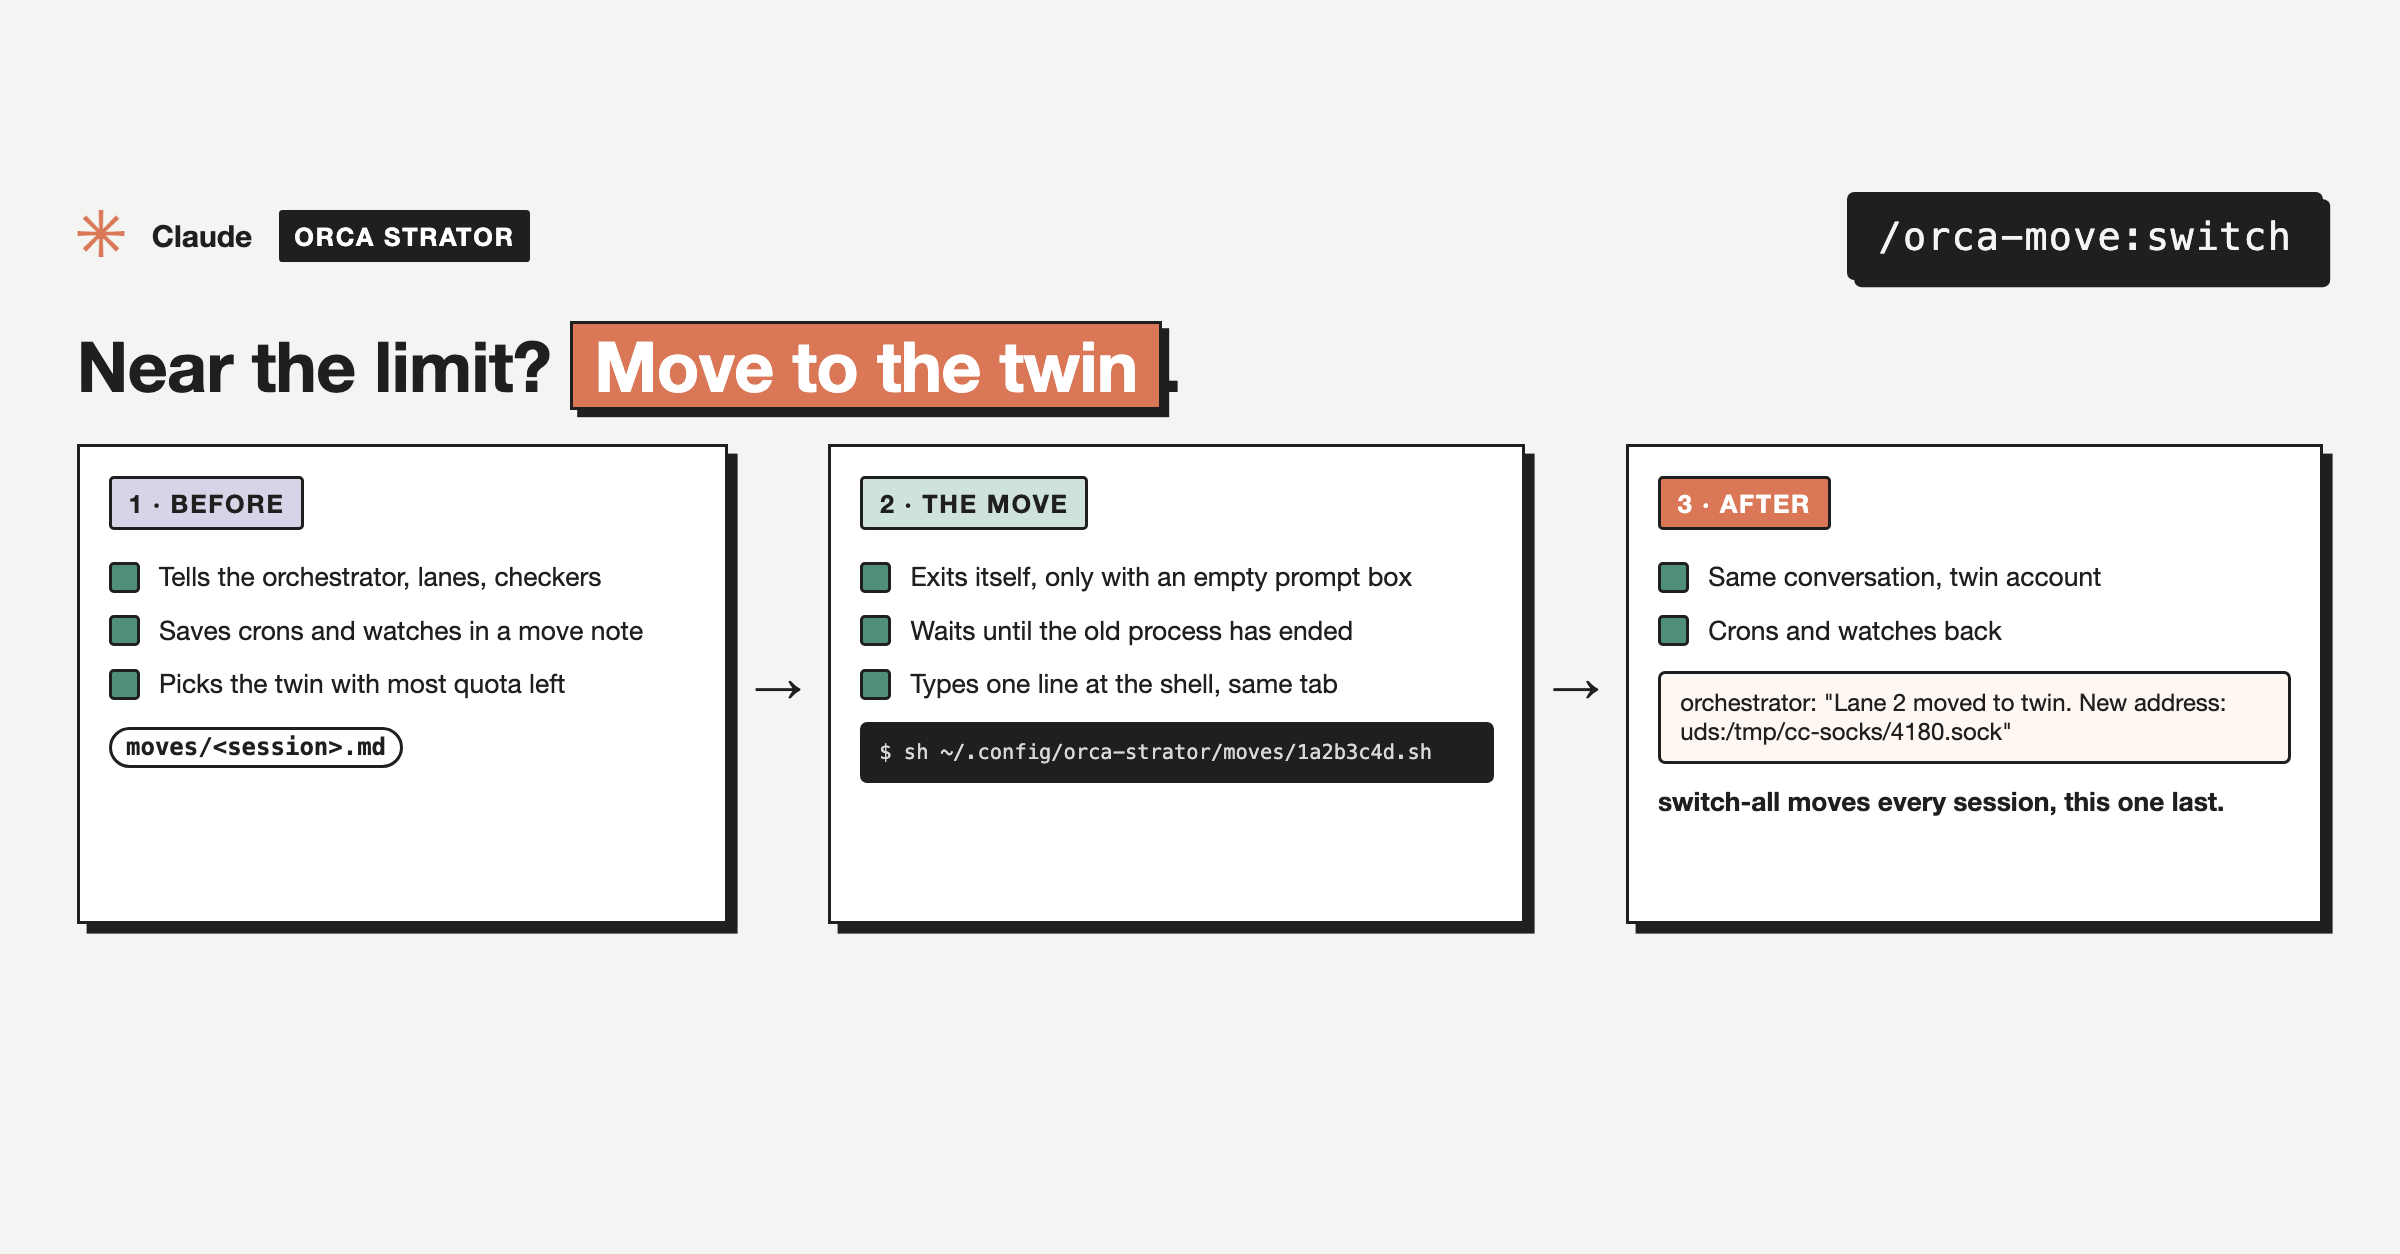
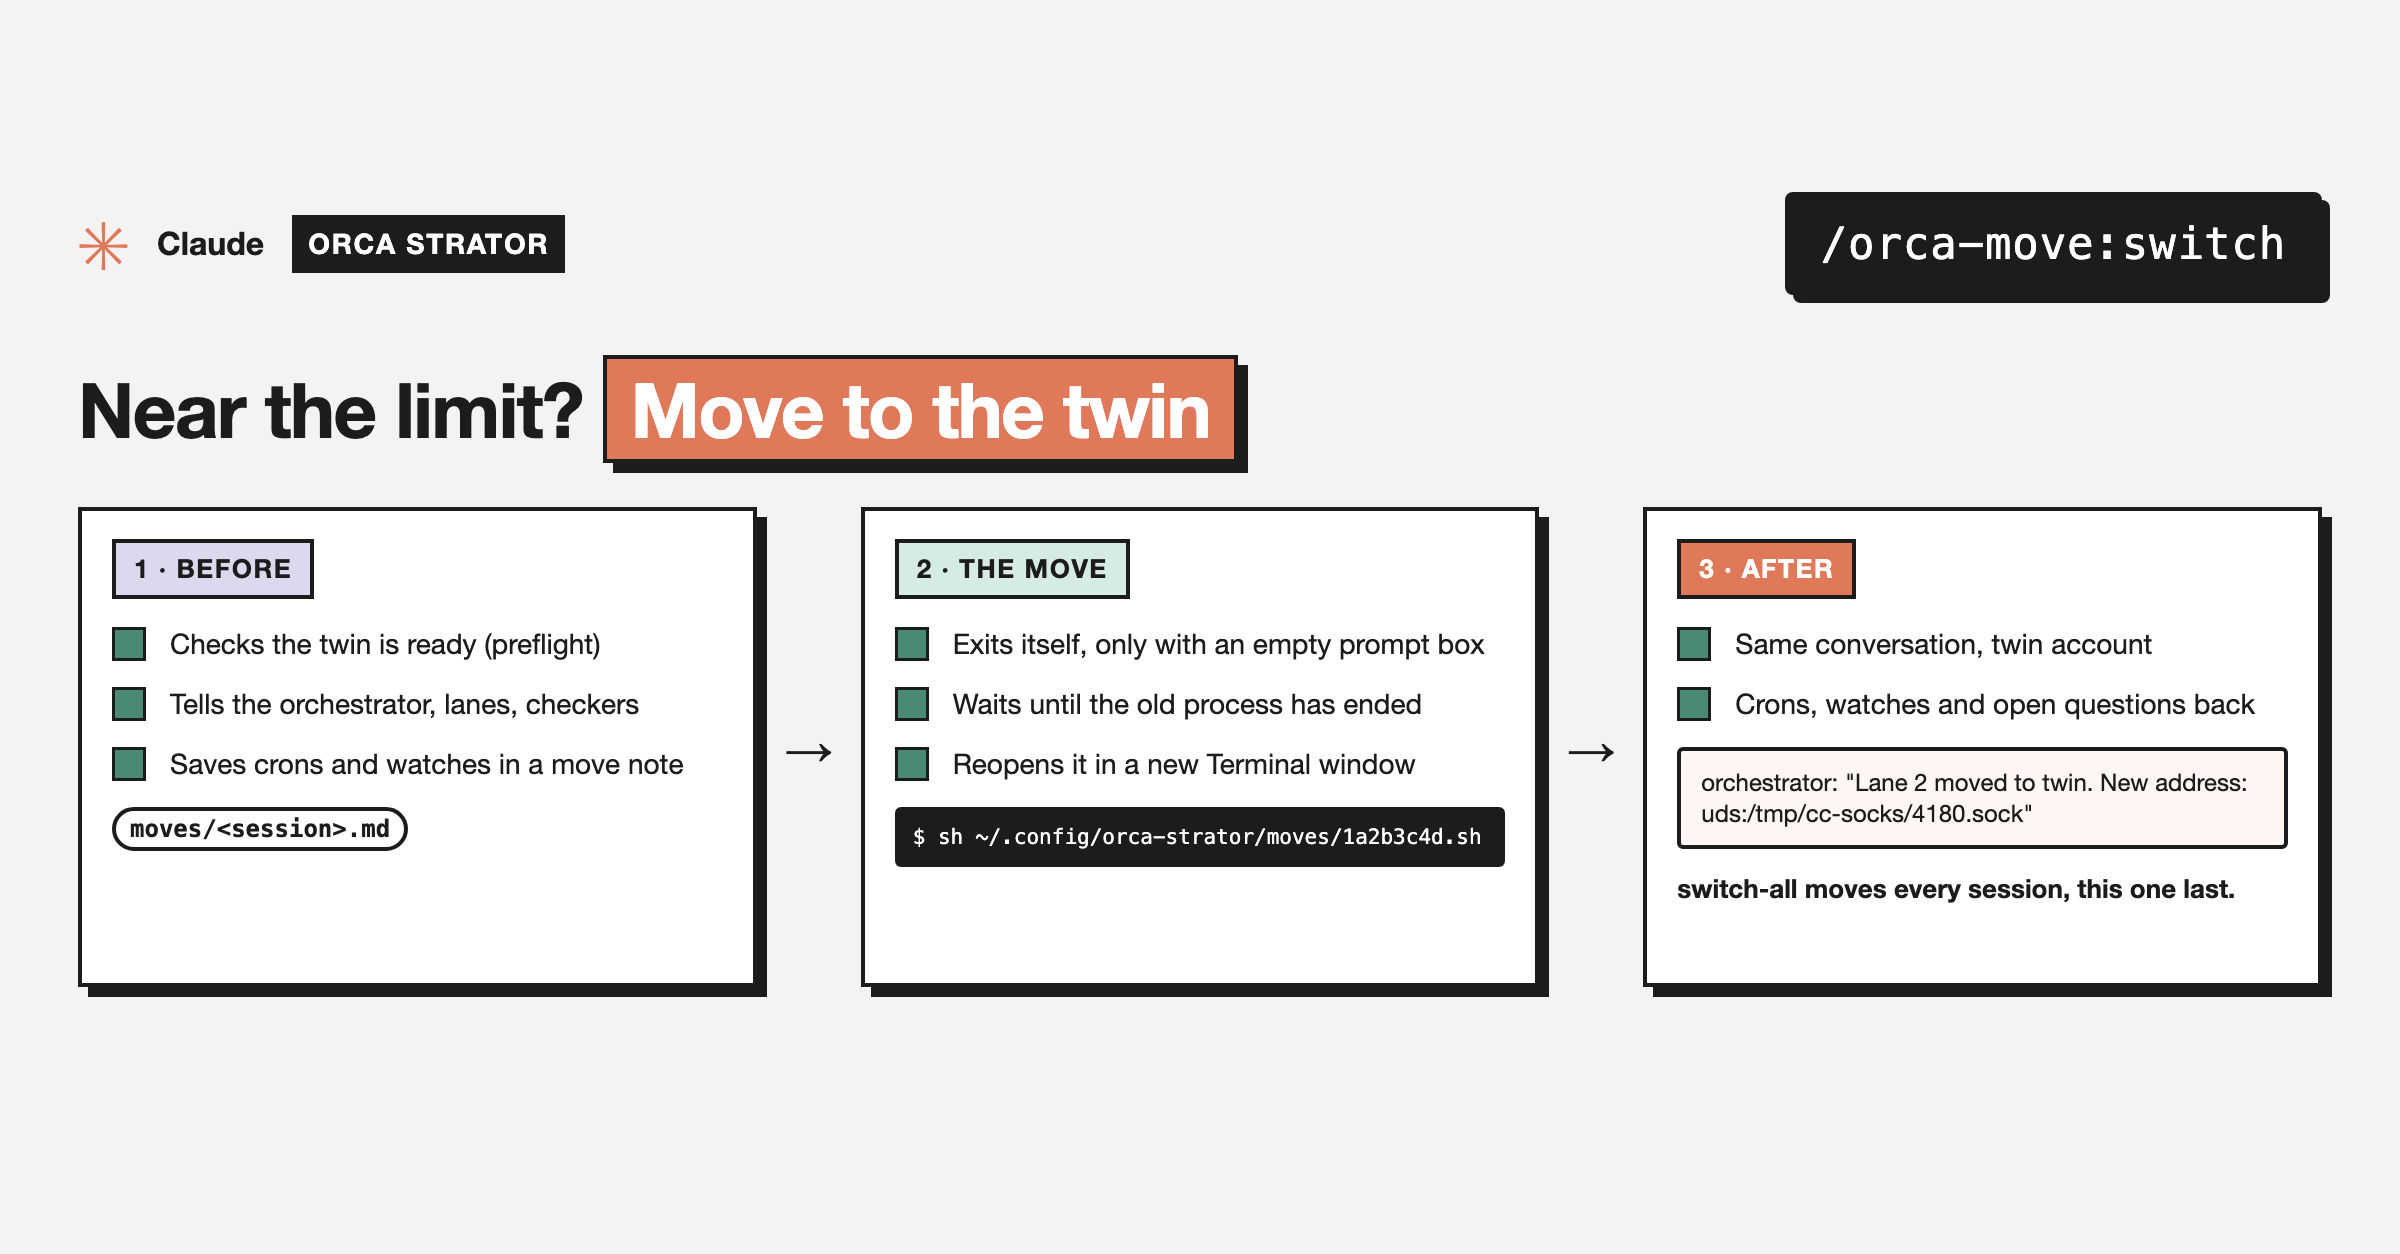
orca-peers 0.4.2: ps in the C locale; orca-move flow image redrawn with its source (#25)
- peers.py passes LC_ALL=C to both ps calls, so lstart matches procStart under en_GB (S9-1033)
- docs/images/orca-move-flow.png: preflight first, reopens in a new window, open questions back
- docs/images/orca-move-flow.html: the source that renders it

Claude-Session: https://claude.ai/code/session_01CMPCUTAeucPBEbd4bQMrGq

diff --git a/docs/images/orca-move-flow.html b/docs/images/orca-move-flow.html
@@ -1,0 +1,65 @@
+<!doctype html>
+<html><head><meta charset="utf-8"><title>orca-move flow</title>
+<!-- Source of orca-move-flow.png. Render: Chrome --headless=new --hide-scrollbars --force-device-scale-factor=2 --window-size=1200,627 --screenshot=orca-move-flow.png file://$PWD/orca-move-flow.html -->
+<style>
+  * { box-sizing: border-box; margin: 0; padding: 0; }
+  html, body { width: 1200px; height: 627px; background: #f4f3f1; font-family: "Helvetica Neue", Helvetica, Arial, sans-serif; color: #1c1c1c; }
+  .wrap { position: absolute; left: 39px; right: 39px; top: 96px; }
+  .top { display: flex; align-items: center; justify-content: space-between; }
+  .brand { display: flex; align-items: center; gap: 14px; font-weight: 700; font-size: 16px; }
+  .star { color: #e0795a; font-size: 34px; line-height: 1; font-weight: 300; margin-right: 0; }
+  .tag { background: #1c1c1c; color: #fff; padding: 6px 8px; letter-spacing: .06em; font-size: 14px; }
+  .cmd { background: #1c1c1c; color: #fff; font-family: Menlo, monospace; font-size: 22px; padding: 13px 18px; border-radius: 4px; box-shadow: 4px 4px 0 #1c1c1c; letter-spacing: .02em; }
+  h1 { margin-top: 30px; font-size: 38px; font-weight: 800; letter-spacing: -0.02em; display: flex; align-items: center; gap: 10px; }
+  h1 .hl { background: #e0795a; color: #fff; padding: 2px 12px; border: 2px solid #1c1c1c; box-shadow: 5px 5px 0 #1c1c1c; }
+  .row { margin-top: 22px; display: flex; align-items: center; gap: 0; }
+  .card { flex: 1; background: #fff; border: 2px solid #1c1c1c; box-shadow: 5px 5px 0 #1c1c1c; height: 240px; padding: 14px 15px; }
+  .arrow { width: 52px; text-align: center; font-size: 24px; }
+  .pill { display: inline-block; border: 2px solid #1c1c1c; font-weight: 700; letter-spacing: .06em; font-size: 13px; padding: 5px 9px; margin-bottom: 14px; }
+  .p1 { background: #dcd9ef; } .p2 { background: #d6ebe2; } .p3 { background: #e0795a; color: #fff; }
+  ul { list-style: none; }
+  li { display: flex; align-items: center; gap: 12px; font-size: 14px; margin-bottom: 13px; }
+  li::before { content: ""; width: 14px; height: 14px; background: #4a8a73; border: 1.5px solid #1c1c1c; flex: none; }
+  .chip { display: inline-block; border: 2px solid #1c1c1c; border-radius: 12px; font-family: Menlo, monospace; font-weight: 700; font-size: 12px; padding: 2px 7px; }
+  .code { background: #1c1c1c; color: #fff; font-family: Menlo, monospace; font-size: 10.5px; padding: 9px 9px; border-radius: 3px; }
+  .quote { border: 2px solid #1c1c1c; background: #fdf6f2; font-size: 12px; padding: 8px 10px; border-radius: 3px; line-height: 1.3; }
+  .foot { margin-top: 12px; font-weight: 700; font-size: 13px; }
+</style></head>
+<body><div class="wrap">
+  <div class="top">
+    <div class="brand"><span class="star">✳</span><span>Claude</span><span class="tag">ORCA STRATOR</span></div>
+    <div class="cmd">/orca-move:switch</div>
+  </div>
+  <h1>Near the limit? <span class="hl">Move to the twin</span></h1>
+  <div class="row">
+    <div class="card">
+      <div class="pill p1">1 · BEFORE</div>
+      <ul>
+        <li>Checks the twin is ready (preflight)</li>
+        <li>Tells the orchestrator, lanes, checkers</li>
+        <li>Saves crons and watches in a move note</li>
+      </ul>
+      <span class="chip">moves/&lt;session&gt;.md</span>
+    </div>
+    <div class="arrow">→</div>
+    <div class="card">
+      <div class="pill p2">2 · THE MOVE</div>
+      <ul>
+        <li>Exits itself, only with an empty prompt box</li>
+        <li>Waits until the old process has ended</li>
+        <li>Reopens it in a new Terminal window</li>
+      </ul>
+      <div class="code">$ sh ~/.config/orca-strator/moves/1a2b3c4d.sh</div>
+    </div>
+    <div class="arrow">→</div>
+    <div class="card">
+      <div class="pill p3">3 · AFTER</div>
+      <ul>
+        <li>Same conversation, twin account</li>
+        <li>Crons, watches and open questions back</li>
+      </ul>
+      <div class="quote">orchestrator: "Lane 2 moved to twin. New address: uds:/tmp/cc-socks/4180.sock"</div>
+      <div class="foot">switch-all moves every session, this one last.</div>
+    </div>
+  </div>
+</div></body></html>

diff --git a/plugins/orca-peers/skills/peers/scripts/peers.py b/plugins/orca-peers/skills/peers/scripts/peers.py
@@ -98,6 +98,9 @@ def accounts():
     return found
 
 
+C_ENV = dict(os.environ, LC_ALL="C")
+
+
 def proc_info(pid):
     """(start time text, command) of a live pid, or None."""
     try:
@@ -107,8 +110,10 @@ def proc_info(pid):
     except PermissionError:
         pass
     try:
+        # C locale: Claude Code records procStart as ps prints it there ("Mon Nov 16 ..."); en_GB
+        # prints "Mon 16 Nov ..." and no session would ever look live.
         out = subprocess.run(["ps", "-p", str(pid), "-o", "lstart=,comm="],
-                             capture_output=True, text=True, timeout=5).stdout.strip()
+                             capture_output=True, text=True, timeout=5, env=C_ENV).stdout.strip()
     except (OSError, subprocess.SubprocessError):
         return None
     if not out:
@@ -333,7 +338,7 @@ def my_pids():
             break
         pids.add(pid)
         try:
-            out = subprocess.run(["ps", "-p", str(pid), "-o", "ppid="], capture_output=True, text=True, timeout=5).stdout.strip()
+            out = subprocess.run(["ps", "-p", str(pid), "-o", "ppid="], capture_output=True, text=True, timeout=5, env=C_ENV).stdout.strip()
             pid = int(out)
         except (ValueError, OSError, subprocess.SubprocessError):
             break

diff --git a/STATUS.md b/STATUS.md
@@ -1,5 +1,7 @@
 # claude-plugins: current state
 
+**19 November 2026 (`orca-peers` 0.4.2, orca-move flow image):** `peers.py` runs `ps` with `LC_ALL=C`, the same fix as orca-move 0.3.0: under en_GB `lstart` never matched the pid record's `procStart` and peers printed "No live Claude Code session found." Checked live under `LC_ALL=en_GB.UTF-8`. The orca-move flow image is redrawn (preflight first, reopens in a new Terminal window, open questions come back). The orca-strator bundle needs no bump: it only depends on its parts and carries no copy of them.
+
 **19 November 2026 (`orca-move` 0.3.0, seamless seat moves):** 22 sessions moved twice in one day (to one twin, then another) showed what a move still lost. Fixes: `ps` runs with `LC_ALL=C` (under en_GB `lstart` printed `Mon 16 Nov`, never matching `procStart`, so move-all saw only itself); every move reopens the session in a NEW Terminal window (`osascript do script`), since typing into the old tab missed or hit the wrong tab after tty numbers were reused (18 of 21 "tab not found"); the self-move helper waits 45 s after the exit and opens a window unless a `--resume <id>` process already runs. A session waiting on a question now moves, with `## Re-ask on arrival` in its note, and `after-move` asks the same question again (permission prompts stay behind `--force`). New `move.py preflight <twin> [--fix]`: logged in, user MCP servers (settings copied, never logins), project trust and `.mcp.json` approvals, the four Chrome keys, and `claude mcp list` as the twin compared with the source, naming each server to sign in to once; `go` and `move-all` refuse until clean (`--skip-preflight`). Resume scripts add `--chrome` when the old session had it and source the optional config `resume_env_file`; optional `after_new_seat` runs once per new twin. Notes list the session's MCP servers; `after-move` verifies account, servers and Chrome first. `move-all` checks each opened window shows up on the target. Tests: 34 Python (15 new). Live, under `LC_ALL=en_GB.UTF-8`: 3 throwaway workc sessions moved to workd, each reopened in a new window and confirmed running there; a fourth, waiting on an AskUserQuestion with previews and started with `--chrome`, came back with `--chrome` and asked the same question again (word for word, previews too), showing waiting on peers. (The first waiting test was answered by hand 20 s before the move, so it moved as idle, correctly without a re-ask.) Not run live: a self-move through `go` (45 s watcher) and preflight `--fix` against a real new seat. The flow image still says "same tab".
 
 **12 November 2026 (`orca-move` 0.2.0, `orca-quota` 0.3.0, `move-all`):** an account hit its 5-hour limit during a switch-all: sessions already out of quota could not take the turn to run `switch`, and asking each one in turn was slow. A hand-written script that ended each Claude pid and typed the resume line into its Terminal tab moved 13 sessions in seconds. That is now `move.py move-all <twin> [--account] [--wait 60] [--force] [--assume-limited] [--dry-run]`, run by the person with `!` (it ends other sessions' processes, so a model never runs it). Rules: idle, or waiting at the usage limit, moves; busy waits then skips; `shell` (a background command running) moves only at the limit; a permission dialog never without `--force`. "At the limit" is an orca-quota reading of 100% with its reset ahead, `limit` in `waitingFor`, or `--assume-limited`. It writes a short move note (reporting line, fleet, crons unknown); `after-move` now rebuilds crons from `.claude/orca-strator.json` by role and tells the reporting line. `switch-all` shows a dry run and hands over one `!` line, the per-session ask kept as fallback. The orca-move mod writes `moves/move-py` (its move.py path); orca-quota's auto move, at the warning level (default now 85%), claims `moves/move-all-<account>.json` and runs move-all for the whole account (`$.process.run` caps `timeoutMs` at 600000). Not seen live yet: a real move-all run and the auto move. Tests: orca-move 5 mod + 19 Python (`test_move_all.py`; CI now also runs `plugins/*/skills/*/scripts/test_*.py`), orca-quota 23 (two new).
